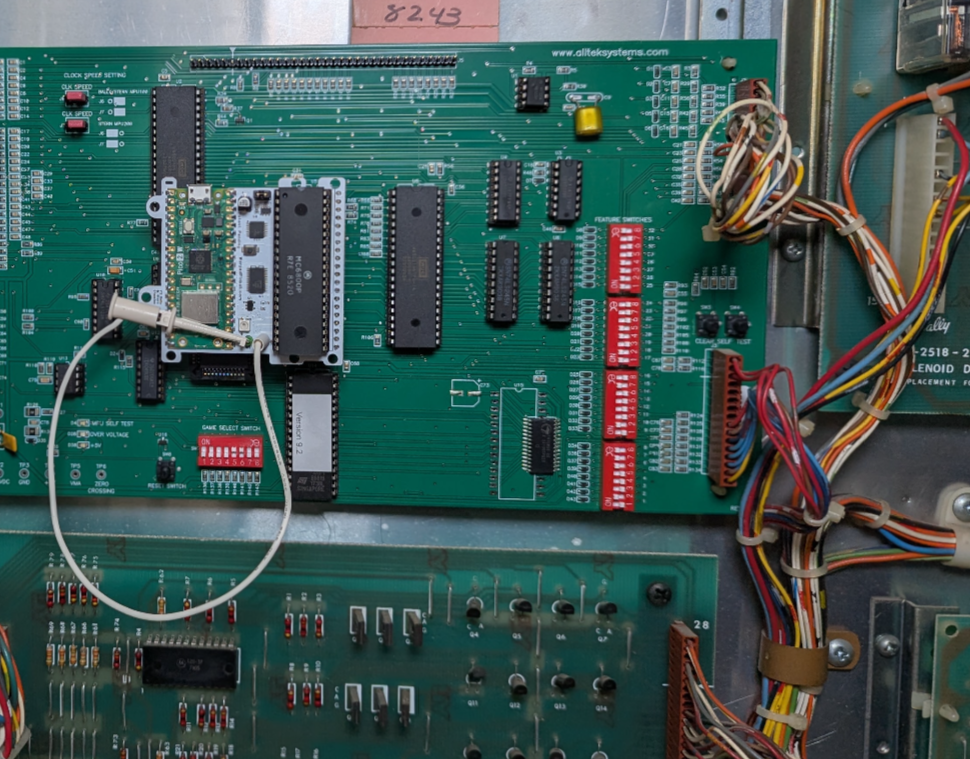
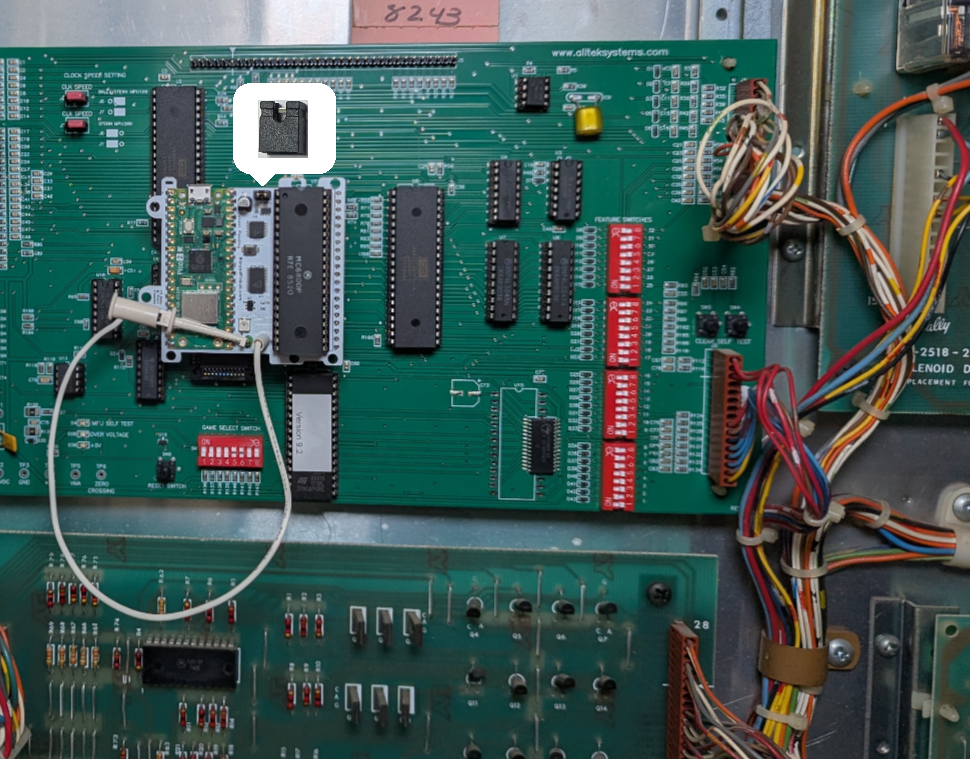
.

Changed region(s): [[0.2165, 0.0909, 0.3711, 0.2424]]

diff --git a/docs/guides/classic/quick-start.md b/docs/guides/classic/quick-start.md
@@ -28,7 +28,7 @@ Check out installation videos at [WarpedPinball.com](https://WarpedPinball.com).
 
 ![Socket Photo](../../img/sys11/socket.jpg)
 
-5. Attach the sticky standoff and screw to the Vector board and peel the backing.
+5. (Optional) Attach the sticky standoff and screw to the Vector board and peel the backing.
 6. Place the board into the MPU-board socket, confirm all pins are seated, and make
    sure the processor orientation matches the original.
 <br><br>
